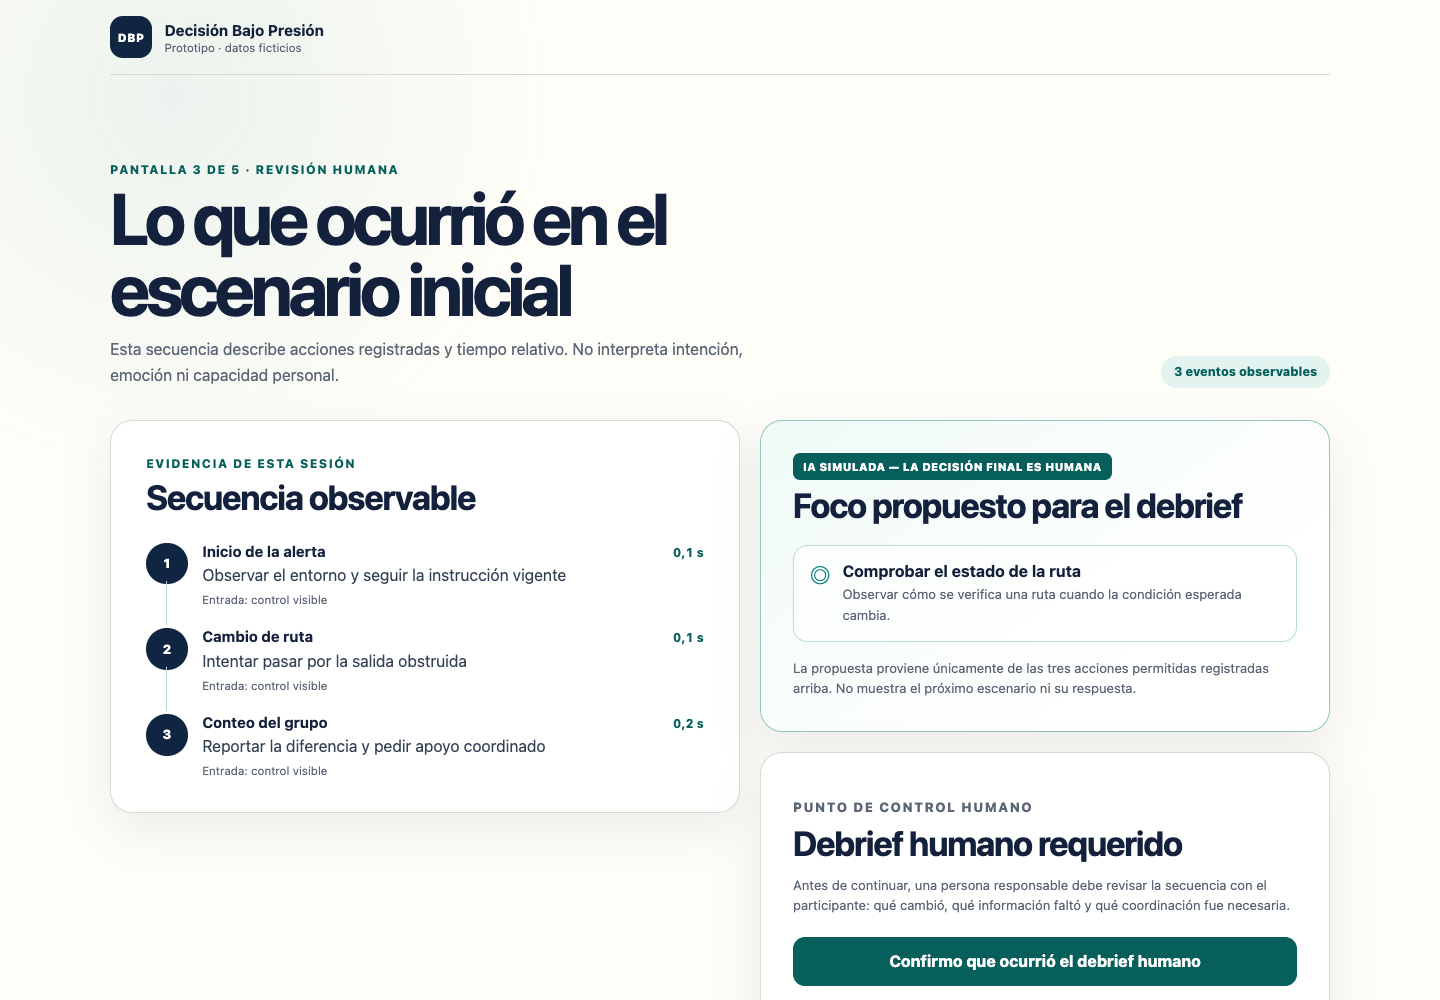
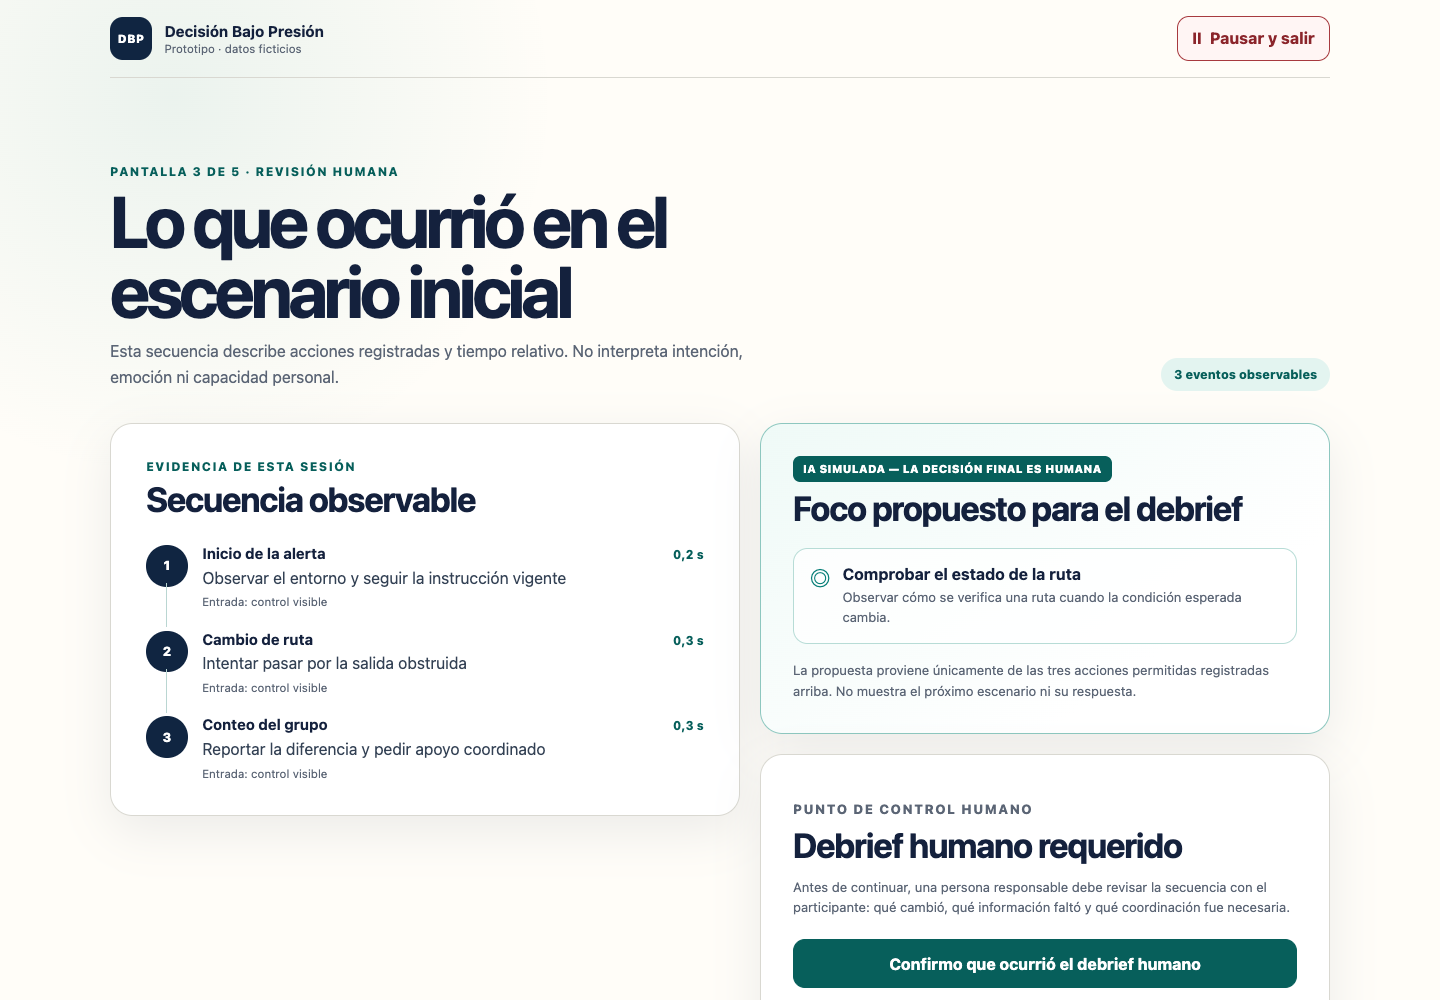
fix: add safe pause path to human debrief

diff --git a/tests/debrief.test.tsx b/tests/debrief.test.tsx
@@ -122,4 +122,45 @@ describe("Feature 4 observable trace and human debrief", () => {
       }),
     ).toBeNull();
   });
+
+  it("can pause and return to the debrief without bypassing confirmation", async () => {
+    const user = userEvent.setup();
+    render(<App />);
+
+    await user.click(screen.getByRole("radio", { name: /Vista plana/i }));
+    await user.click(screen.getByRole("button", { name: /Comenzar ensayo/i }));
+    await user.click(screen.getByRole("button", { name: /Observar el entorno/i }));
+    await user.click(screen.getByRole("button", { name: /Intentar pasar/i }));
+    await user.click(
+      screen.getByRole("button", {
+        name: /^Reportar la diferencia y pedir apoyo coordinado$/i,
+      }),
+    );
+
+    expect(
+      screen.getByRole("heading", { name: "Debrief humano requerido" }),
+    ).toBeVisible();
+    await user.click(screen.getByRole("button", { name: /Pausar y salir/i }));
+
+    expect(
+      screen.getByRole("dialog", { name: /Tómate el tiempo/i }),
+    ).toBeVisible();
+    expect(
+      screen.queryByRole("button", {
+        name: "Confirmo que ocurrió el debrief humano",
+      }),
+    ).toBeNull();
+
+    await user.click(screen.getByRole("button", { name: /Reanudar ensayo/i }));
+    expect(
+      screen.getByRole("button", {
+        name: "Confirmo que ocurrió el debrief humano",
+      }),
+    ).toBeVisible();
+    expect(
+      screen.queryByRole("heading", {
+        name: "La ruta alterna habitual también está cerrada. ¿Qué haces?",
+      }),
+    ).toBeNull();
+  });
 });

diff --git a/tests/sessionReducer.test.ts b/tests/sessionReducer.test.ts
@@ -71,6 +71,24 @@ describe("Feature 2 session reducer", () => {
     expect(resumed.events).toEqual([baselineEvent]);
   });
 
+  it("pauses and resumes the human debrief without satisfying its gate", () => {
+    const debrief = completedBaselineState();
+
+    const paused = sessionReducer(debrief, { type: "pause" });
+    expect(paused.phase).toBe("paused");
+    expect(paused.resumePhase).toBe("debrief");
+    expect(paused.events).toEqual(debrief.events);
+
+    expect(
+      sessionReducer(paused, { type: "confirm_debrief" }),
+    ).toBe(paused);
+
+    const resumed = sessionReducer(paused, { type: "resume" });
+    expect(resumed.phase).toBe("debrief");
+    expect(resumed.resumePhase).toBeNull();
+    expect(resumed.events).toEqual(debrief.events);
+  });
+
   it("ignores pause outside an active scenario", () => {
     const intro = createInitialSessionState();
     expect(sessionReducer(intro, { type: "pause" })).toBe(intro);

diff --git a/e2e/evidence-loop.spec.ts b/e2e/evidence-loop.spec.ts
@@ -66,6 +66,24 @@ async function completeRouteJourney(
   await onStep();
   await activate(/^Reportar la diferencia y pedir apoyo coordinado$/i);
   await onStep();
+
+  await expect(
+    page.getByRole("heading", { name: "Debrief humano requerido" }),
+  ).toBeVisible();
+  await activate(/Pausar y salir/i);
+  await expect(
+    page.getByRole("dialog", { name: /Tómate el tiempo/i }),
+  ).toBeVisible();
+  await expect(
+    page.getByRole("button", { name: /Confirmo que ocurrió el debrief humano/i }),
+  ).toHaveCount(0);
+  await onStep();
+  await activate(/Reanudar ensayo/i);
+  await expect(
+    page.getByRole("heading", { name: "Debrief humano requerido" }),
+  ).toBeVisible();
+  await onStep();
+
   await activate("Confirmo que ocurrió el debrief humano");
   await onStep();
   await activate("Verificar y seguir la ruta temporal señalizada");

diff --git a/src/app/sessionReducer.ts b/src/app/sessionReducer.ts
@@ -15,11 +15,11 @@ export type SessionSettings = Readonly<{
   voiceEnabled: boolean;
 }>;
 
-type ActiveScenarioPhase = Extract<SessionPhase, "baseline" | "retest">;
+type PausablePhase = Extract<SessionPhase, "baseline" | "debrief" | "retest">;
 
 export type SessionState = Readonly<{
   phase: SessionPhase;
-  resumePhase: ActiveScenarioPhase | null;
+  resumePhase: PausablePhase | null;
   settings: SessionSettings;
   events: readonly DecisionEvent[];
 }>;
@@ -149,7 +149,9 @@ export function sessionReducer(
       return hasCompleteTrace ? { ...state, phase: "retest" } : state;
     }
     case "pause":
-      return state.phase === "baseline" || state.phase === "retest"
+      return state.phase === "baseline" ||
+        state.phase === "debrief" ||
+        state.phase === "retest"
         ? {
             ...state,
             phase: "paused",

diff --git a/src/app/App.tsx b/src/app/App.tsx
@@ -31,7 +31,10 @@ export function App() {
   const pauseStartedAtRef = useRef<number | null>(null);
   const pausedDurationRef = useRef(0);
 
-  const canPause = session.phase === "baseline" || session.phase === "retest";
+  const canPause =
+    session.phase === "baseline" ||
+    session.phase === "debrief" ||
+    session.phase === "retest";
   const baselineEvents = session.events.filter(
     (event) => event.scenarioId === "baseline_corridor_a",
   );

diff --git a/tests/baseline.test.tsx b/tests/baseline.test.tsx
@@ -124,7 +124,9 @@ describe("Feature 3 baseline rehearsal", () => {
       }),
     ).toBeVisible();
     expect(screen.getByText("3 eventos observables")).toBeVisible();
-    expect(screen.queryByRole("button", { name: /Pausar y salir/i })).toBeNull();
+    expect(
+      screen.getByRole("button", { name: /Pausar y salir/i }),
+    ).toBeVisible();
   });
 
   it("preserves the current decision when paused and resumed", async () => {

diff --git a/docs/TESTING.md b/docs/TESTING.md
@@ -17,12 +17,12 @@ Environment: macOS, Node.js 20+, Google Chrome through Playwright 1.63.0
 | M07 | Pass | `tests/events.test.ts` asserts the exact five-field event schema and rejects invalid actions, timing, input modes, and scenarios. |
 | M08 | Pass | `tests/voice.test.tsx` proves recognition is not constructed or started before the explicit **Escuchar comando** action. |
 | M09 | Pass | `tests/voice.test.tsx` confirms unsupported, permission-denied, network-error, and recognition-error states leave visible buttons usable. |
-| M10 | Pass | `tests/session.test.tsx`, `tests/baseline.test.tsx`, `tests/retest.test.tsx`, and `tests/sessionReducer.test.ts` verify pause availability, focus transfer, phase preservation, and zero evidence creation in baseline and retest. |
+| M10 | Pass | `tests/session.test.tsx`, `tests/baseline.test.tsx`, `tests/debrief.test.tsx`, `tests/retest.test.tsx`, and `tests/sessionReducer.test.ts` verify pause availability, focus transfer, phase preservation, and zero evidence or confirmation creation in baseline, human debrief, and retest. |
 | M11 | Pass | `e2e/evidence-loop.spec.ts` completes the entire flat-view journey with native Tab, arrow-key, Enter, and Space patterns; component tests confirm pointer/keyboard action parity. |
-| M12 | Pass | Playwright completes baseline → pause/resume → neutral trace → human-debrief acknowledgment → different unseen retest → comparison and finds the immutable physical gate. |
+| M12 | Pass | Playwright completes baseline → pause/resume → neutral trace → debrief pause/resume → human-debrief acknowledgment → different unseen retest → comparison and finds the immutable physical gate. |
 | M13 | Pass | The Playwright journey reloads after comparison and observes the clean start screen with no retained result; component tests also cover remount and exit resets. |
 | M14 | Pass | Playwright repeats the complete flow at 390 × 844 and checks for horizontal overflow after every transition. Desktop and mobile screenshots were visually inspected. |
-| M15 | Pass | Lint, 67 Vitest tests, 2 Playwright tests, strict TypeScript, production build, tracked-source scans, fixture review, same-origin GET-only browser request assertion, and production dependency audit all pass. |
+| M15 | Pass | Lint, 69 Vitest tests, 4 Playwright tests, strict TypeScript, production build, tracked-source scans, fixture review, same-origin GET-only browser request assertion, and production dependency audit all pass. |
 
 ## Recorded screenshots
 
@@ -48,15 +48,15 @@ git diff --check
 Results on 2026-09-16:
 
 - ESLint: passed with no findings.
-- Vitest: 67 tests passed across 11 files.
-- Playwright: 2 tests passed in installed Google Chrome.
+- Vitest: 69 tests passed across 11 files.
+- Playwright: 4 tests passed in installed Google Chrome.
 - Strict TypeScript: passed.
 - Vite production build: passed.
 - Production dependency audit: no known vulnerabilities.
 - Diff whitespace check: passed.
-- Production output: `dist/index.html` 0.54 kB, initial JavaScript 223.03 kB (69.24 kB gzip), CSS 19.23 kB (4.65 kB gzip), lazy 3D chunk 895.68 kB (236.51 kB gzip).
+- Production output: `dist/index.html` 0.54 kB, initial JavaScript 223.07 kB (69.25 kB gzip), CSS 19.23 kB (4.65 kB gzip), lazy 3D chunk 895.68 kB (236.51 kB gzip).
 
-The Playwright configuration uses the installed stable Chrome channel. The browser download command timed out against the Playwright CDN in this environment, so no downloaded Chromium binary was used. This did not weaken the browser checks: both tests ran in the installed Chrome browser and passed.
+The Playwright configuration uses the installed stable Chrome channel. The browser download command timed out against the Playwright CDN in this environment, so no downloaded Chromium binary was used. This did not weaken the browser checks: all four tests ran in the installed Chrome browser and passed.
 
 ## Five-check security floor
 

diff --git a/docs/PERSONA.md b/docs/PERSONA.md
@@ -82,4 +82,20 @@ The human gate must remain non-bypassable, but Laura may reach it before the res
 
 ## Retest status
 
-Not started. After P01 is fixed, capture the changed Screen 3 and repeat that screen with the same persona instructions to determine whether Laura can wait or exit without feeling pressured to make a false confirmation.
+Completed locally on 2026-09-16 after the P01 correction. Public Deployment 2 verification remains required.
+
+## Screen 3 retest after P01 correction
+
+Evidence: [Changed human-debrief screen](evidence/persona/screen-3-human-debrief.png)
+
+> “I can see **Pausar y salir** before I confirm anything. If the responsible person is not available, I can pause, choose whether to resume or leave without saving, and I do not have to claim that the conversation happened. When I resume, I return to the same review and still must confirm the real debrief before the new scenario begins.”
+
+The affected screen was repeated with Laura's original instructions and accessibility choices. The retest verified that:
+
+- **Pausar y salir** is visible on the human-debrief screen.
+- Pausing creates no decision or debrief confirmation.
+- The confirmation control is unavailable inside the pause overlay.
+- Resuming returns to the human-debrief screen with the observable trace intact.
+- The unseen retest remains inaccessible until **Confirmo que ocurrió el debrief humano** is explicitly activated after the real conversation.
+
+Retest outcome: P01 reduced from `blocks completion` to `none` on the affected task. The human gate remains non-bypassable. The lower-severity recording-timing and final-session-closure observations remain open and do not block Deployment 2.
